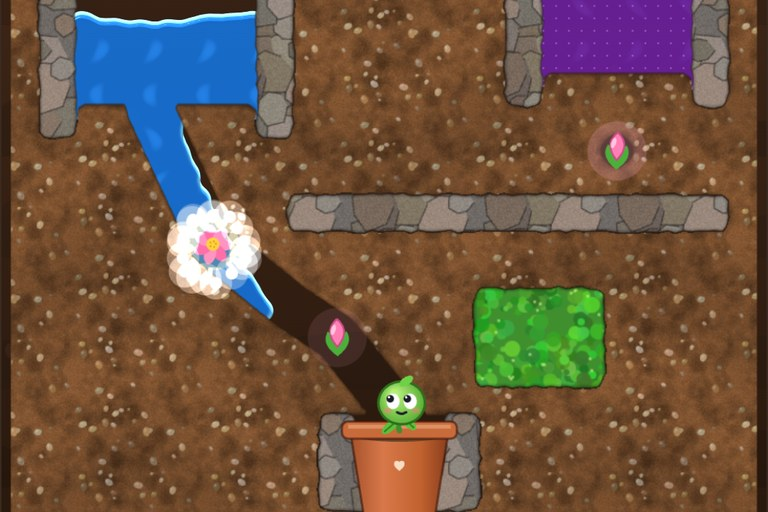
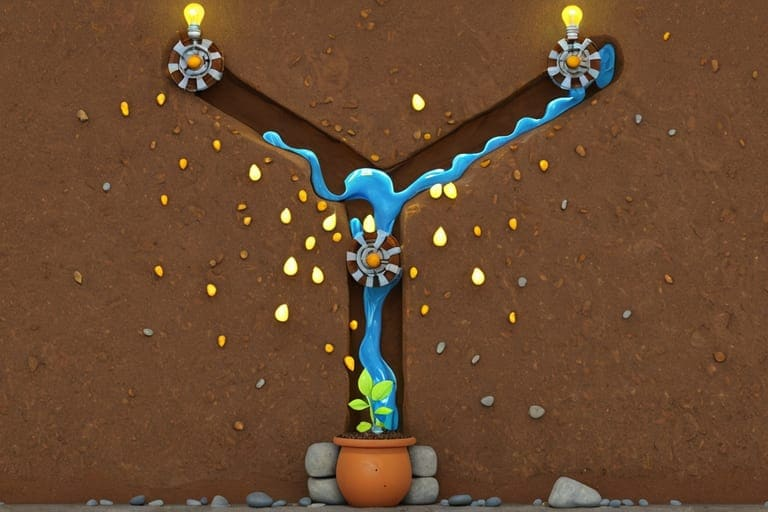
fix(implosao): validação pela parte real acima da linha; turbinas no Gota a Gota
Implosão: a avaliação só via o centro de cada peça, por isso peças
tombadas meio acima da linha contavam como 100% em baixo. Agora cada peça
é cortada pelo plano da linha e conta só o volume que fica por baixo.
Soluções dos 36 níveis recalculadas; Pirâmide começava já ganha (linha
2,5 → 1,8 m) e a Torre de Água não tinha solução possível (3 → 3,5 m).

Gota a Gota: as flores passam a turbinas (roda de pás que a água faz
girar e acende uma lâmpada; avaria com lodo/lava). Textos, conquista e
pesquisa atualizados; regras e níveis iguais.

Capas novas dos dois jogos geradas no ComfyUI. sw v350.

diff --git a/js/games/game-drip.js b/js/games/game-drip.js
@@ -2,7 +2,7 @@
    Gota a Gota (id drip) — puzzle de escavar para levar a água (out/2026).
 
    O Rebento, uma plantinha num vaso lá em baixo, tem sede. Escava a terra
-   com o dedo (ou o rato) para a água lá chegar; rega os botões de flor
+   com o dedo (ou o rato) para a água lá chegar; liga as turbinas
    pelo caminho (estrelas) e cuidado com o lodo, a lava e o musgo.
 
    Camadas no palco do ArcadeKit:
@@ -340,7 +340,12 @@ const DripGame = (function () {
     G.scared = danger < 120;
     G.fx = G.fx.filter(f => (f.t += dt) < f.life);
     G.bloomFx = G.bloomFx.filter(f => (f.t += dt) < f.life);
-    S.buds.forEach(b => { if (b.t > 0) b.t -= dt; if (b.state !== 'bud') b.anim = Math.min(1, (b.anim || 0) + dt * 2.5); });
+    S.buds.forEach(b => {
+      if (b.t > 0) b.t -= dt; if (b.state !== 'bud') b.anim = Math.min(1, (b.anim || 0) + dt * 2.5);
+      /* a roda gira com cada gota que passa; ligada, gira sempre */
+      b.w = b.state === 'bloom' ? (b.w || 0) + (9 - (b.w || 0)) * Math.min(1, dt * 3) : (b.w || 0) * Math.exp(-dt * 2.2);
+      b.rot = (b.rot || 0) + b.w * dt;
+    });
     S.switches.forEach(s => { if (s.on) s.anim = Math.min(1, (s.anim || 0) + dt * 3); });
     if (G.hintT > 0) G.hintT -= dt;
     /* fim */
@@ -354,8 +359,8 @@ const DripGame = (function () {
     const S = G.S, sf = api.sfx;
     for (const e of S.ev) {
       if (e.t === 'drink') { G.drink = 1; if (Math.random() < .25) sf.tone(520 + Math.random() * 300, .06, 'sine', .04, 0, 820); }
-      else if (e.t === 'sip') { sf.tone(900 + e.b.got * 60, .06, 'triangle', .04); }
-      else if (e.t === 'bloom') { sf.arp([660, 880, 1100, 1320], .06, .14, 'triangle', .07); api.vibe(20); G.bloomFx.push({ x: e.b.x, y: e.b.y, t: 0, life: 1.4 }); api.burst(e.b.x, e.b.y, 18, { colors: ['#ff8fc7', '#ffe066', '#ffffff'], speed: 160 }); }
+      else if (e.t === 'sip') { sf.tone(900 + e.b.got * 60, .06, 'triangle', .04); e.b.w = Math.min(10, (e.b.w || 0) + 4); }
+      else if (e.t === 'bloom') { sf.tone(110, .35, 'sawtooth', .04, 0, 330); sf.arp([523, 784, 1046], .05, .1, 'square', .05); api.vibe(20); G.bloomFx.push({ x: e.b.x, y: e.b.y - 34, t: 0, life: 1.2 }); api.burst(e.b.x, e.b.y - 34, 16, { colors: ['#ffe066', '#7ef0ff', '#ffffff'], speed: 170 }); }
       else if (e.t === 'wilt') { sf.tone(300, .3, 'sawtooth', .05, 0, 120); }
       else if (e.t === 'switch') { sf.tone(440, .08, 'square', .05); sf.tone(660, .1, 'square', .05, .08); sf.noise(.5, .05, .1, 600); }
       else if (e.t === 'valve') { sf.noise(.35, .05, 0, 900); sf.tone(330, .08, 'square', .04); }
@@ -380,10 +385,10 @@ const DripGame = (function () {
     } else { try { if (typeof GameProgress !== 'undefined') GameProgress.record(ID, { won: false, score: 0, mode: G.L.id }); } catch (e) {} }
     const next = LV()[G.li + 1];
     api.panel({
-      icon: won ? (stars === 3 ? '🌸' : '🌱') : '🥀', title: won ? (stars === 3 ? 'Jardim perfeito!' : 'O Rebento bebeu!') : 'Oh não…',
+      icon: won ? (stars === 3 ? '⚡' : '🌱') : '💧', title: won ? (stars === 3 ? 'Energia total!' : 'O Rebento bebeu!') : 'Oh não…',
       stars: won ? stars : null,
-      sub: won ? `${G.L.name}${stars < 3 ? '<br><small>Rega as 3 flores para ganhar ★★★</small>' : ''}` : S.failWhy,
-      stats: won ? [['Flores', stars + '/3'], ['Tempo', Math.round(S.t) + ' s']] : null,
+      sub: won ? `${G.L.name}${stars < 3 ? '<br><small>Liga as 3 turbinas para ganhar ★★★</small>' : ''}` : S.failWhy,
+      stats: won ? [['Turbinas', stars + '/3'], ['Tempo', Math.round(S.t) + ' s']] : null,
       buttons: [
         ...(won && next ? [{ label: '▶ Próximo nível', primary: true, fn: () => api.play(String(G.li + 1)) }] : []),
         { label: won ? '↺ Repetir' : '↺ Tentar de novo', primary: !won, fn: () => api.restart() },
@@ -490,11 +495,10 @@ const DripGame = (function () {
     const hg = ctx.createRadialGradient(hx - 5, hy - 6, 2, hx, hy, R + 2); hg.addColorStop(0, '#b6f07a'); hg.addColorStop(1, '#4fa62f');
     ctx.fillStyle = hg; ctx.beginPath(); ctx.ellipse(hx, hy, R, R * .92, 0, 0, 7); ctx.fill();
     ctx.strokeStyle = '#2f6e1c'; ctx.lineWidth = 1.6; ctx.stroke();
-    /* rebento no topo da cabeça / flor quando ganha */
+    /* rebento no topo da cabeça / duas folhas novas quando ganha */
     if (G.won) {
       const b = Math.min(1, G.endT * 1.5);
-      for (let j = 0; j < 6; j++) { const a = j / 6 * 6.28 + t * .6; ctx.fillStyle = j % 2 ? '#ff7eb6' : '#ff9fca'; ctx.beginPath(); ctx.ellipse(hx + Math.cos(a) * 8 * b, hy - R - 2 + Math.sin(a) * 8 * b, 6 * b, 4 * b, a, 0, 7); ctx.fill(); }
-      ctx.fillStyle = '#ffd84a'; ctx.beginPath(); ctx.arc(hx, hy - R - 2, 4.5 * b + .5, 0, 7); ctx.fill();
+      [-1, 1].forEach(sd => { ctx.save(); ctx.translate(hx, hy - R + 2); ctx.rotate(sd * (.55 + Math.sin(t * 3 + sd) * .08)); ctx.fillStyle = sd < 0 ? '#5cbf3a' : '#6fd04a'; ctx.beginPath(); ctx.ellipse(0, -9 * b, 4.5 * b, 9 * b, 0, 0, 7); ctx.fill(); ctx.strokeStyle = '#2f7a20'; ctx.lineWidth = 1; ctx.beginPath(); ctx.moveTo(0, 0); ctx.lineTo(0, -16 * b); ctx.stroke(); ctx.restore(); });
     } else { ctx.fillStyle = '#6fd04a'; ctx.beginPath(); ctx.ellipse(hx + 3, hy - R + 1, 5, 2.6, -.6, 0, 7); ctx.fill(); }
     /* olhos */
     const blink = (t % 3.7) < .12 || G.drink > .6;
@@ -520,30 +524,54 @@ const DripGame = (function () {
     ctx.restore();
   }
 
+  /* turbina: roda de pás que a água faz girar; ao ligar acende a lâmpada */
   function drawBud(ctx, G, b) {
-    const t = G.t, wob = b.t > 0 ? Math.sin(b.t * 40) * .15 : Math.sin(t * 2 + b.x) * .05;
-    ctx.save(); ctx.translate(b.x, b.y); ctx.rotate(wob);
-    if (b.state === 'dead') {
-      ctx.fillStyle = '#6b5236'; ctx.beginPath(); ctx.ellipse(0, 2, 7, 9, .3, 0, 7); ctx.fill(); ctx.strokeStyle = '#3a2a1a'; ctx.lineWidth = 1.2; ctx.stroke();
-      ctx.restore(); return;
+    const t = G.t, on = b.state === 'bloom', dead = b.state === 'dead';
+    const g = on ? 1 : b.got / b.need, rot = b.rot || 0;
+    ctx.save(); ctx.translate(b.x, b.y); ctx.scale(1.2, 1.2);
+    if (b.t > 0) ctx.translate(Math.sin(b.t * 60) * 1.2, 0);
+    if (on) { const a = b.anim || 1; ctx.scale(.85 + a * .15, .85 + a * .15); }
+    /* brilho de fundo (ciano à espera, amarelo ligada) */
+    ctx.fillStyle = dead ? 'rgba(0,0,0,.18)' : on ? `rgba(255,214,90,${.22 + Math.sin(t * 8 + b.x) * .06})` : `rgba(120,220,255,${.13 + Math.sin(t * 3 + b.x) * .05})`;
+    ctx.beginPath(); ctx.arc(0, 0, 21, 0, 7); ctx.fill();
+    /* poste + lâmpada por cima */
+    ctx.strokeStyle = dead ? '#4a4038' : '#5d6b78'; ctx.lineWidth = 2; ctx.beginPath(); ctx.moveTo(0, -15); ctx.lineTo(0, -24); ctx.stroke();
+    if (on) {
+      const fl = .85 + Math.sin(t * 23 + b.x) * .08;
+      const lg = ctx.createRadialGradient(0, -28, 1, 0, -28, 16); lg.addColorStop(0, `rgba(255,236,140,${.75 * fl})`); lg.addColorStop(1, 'rgba(255,200,60,0)');
+      ctx.fillStyle = lg; ctx.beginPath(); ctx.arc(0, -28, 16, 0, 7); ctx.fill();
     }
-    if (b.state === 'bloom') {
-      const a = b.anim || 1, s = .6 + a * .5;
-      ctx.scale(s, s);
-      ctx.fillStyle = 'rgba(255,230,120,.25)'; ctx.beginPath(); ctx.arc(0, 0, 22, 0, 7); ctx.fill();
-      for (let j = 0; j < 7; j++) { const an = j / 7 * 6.28 + t * .4; ctx.fillStyle = j % 2 ? '#ff6fa8' : '#ff94c2'; ctx.beginPath(); ctx.ellipse(Math.cos(an) * 9, Math.sin(an) * 9, 8, 5, an, 0, 7); ctx.fill(); }
-      ctx.fillStyle = '#ffd23f'; ctx.beginPath(); ctx.arc(0, 0, 5.5, 0, 7); ctx.fill(); ctx.fillStyle = '#e8a31a'; for (let j = 0; j < 5; j++) { ctx.beginPath(); ctx.arc(Math.cos(j * 1.3) * 2.5, Math.sin(j * 1.3) * 2.5, .9, 0, 7); ctx.fill(); }
-      ctx.restore(); return;
+    ctx.fillStyle = dead ? '#3b342e' : on ? '#ffe680' : '#55606b'; ctx.beginPath(); ctx.arc(0, -28, 4.6, 0, 7); ctx.fill();
+    ctx.strokeStyle = dead ? '#2a241f' : on ? '#e0a922' : '#2f3740'; ctx.lineWidth = 1.2; ctx.stroke();
+    ctx.fillStyle = '#8a96a2'; ctx.fillRect(-2.6, -24.5, 5.2, 2.4);
+    if (dead) { ctx.strokeStyle = '#a7b0b8'; ctx.lineWidth = .9; ctx.beginPath(); ctx.moveTo(-2, -31); ctx.lineTo(.5, -28); ctx.lineTo(-1, -25.5); ctx.stroke(); }
+    /* raios da lâmpada acesa */
+    if (on) { ctx.strokeStyle = 'rgba(255,230,120,.9)'; ctx.lineWidth = 1.6; for (let j = 0; j < 5; j++) { const a = -Math.PI / 2 + (j - 2) * .55, r0 = 8 + Math.sin(t * 10 + j) * 1.2; ctx.beginPath(); ctx.moveTo(Math.cos(a) * r0, -28 + Math.sin(a) * r0); ctx.lineTo(Math.cos(a) * (r0 + 4), -28 + Math.sin(a) * (r0 + 4)); ctx.stroke(); } }
+    /* caixa / eixo atrás da roda */
+    ctx.fillStyle = dead ? '#3d342c' : '#46525e'; U.rr(ctx, -5, -12, 10, 6, 2); ctx.fill();
+    /* roda de pás */
+    ctx.save(); ctx.rotate(rot);
+    const blade = dead ? '#5a4a3a' : on ? '#d9e3ea' : '#a9b6c2', edge = dead ? '#2e261f' : '#3c4752';
+    /* raios + aro */
+    ctx.strokeStyle = dead ? '#4a3c30' : '#7d8b98'; ctx.lineWidth = 1.6;
+    for (let j = 0; j < 6; j++) { const a = j / 6 * Math.PI * 2; ctx.beginPath(); ctx.moveTo(Math.cos(a) * 3, Math.sin(a) * 3); ctx.lineTo(Math.cos(a) * 10.5, Math.sin(a) * 10.5); ctx.stroke(); }
+    ctx.lineWidth = 2.4; ctx.beginPath(); ctx.arc(0, 0, 10.5, 0, 7); ctx.stroke();
+    /* pás à volta do aro */
+    for (let j = 0; j < 8; j++) {
+      if (dead && j === 3) continue;   /* pá partida */
+      ctx.save(); ctx.rotate(j / 8 * Math.PI * 2);
+      ctx.fillStyle = blade; U.rr(ctx, -2.6, 9.2, 5.2, 7, 1.2); ctx.fill();
+      ctx.strokeStyle = edge; ctx.lineWidth = .9; ctx.stroke();
+      ctx.restore();
     }
-    const g = b.got / b.need;
-    /* halo + botão fechado que incha com cada gota */
-    ctx.fillStyle = `rgba(255,170,210,${.16 + Math.sin(t * 3 + b.x) * .06})`; ctx.beginPath(); ctx.arc(0, 0, 19, 0, 7); ctx.fill();
-    ctx.fillStyle = '#4caf3a'; ctx.beginPath(); ctx.moveTo(0, 12); ctx.quadraticCurveTo(-11, 4, -6, -4); ctx.lineTo(0, 2); ctx.lineTo(6, -4); ctx.quadraticCurveTo(11, 4, 0, 12); ctx.fill();
-    const s = 1 + g * .35;
-    ctx.fillStyle = '#ff7fb5'; ctx.beginPath(); ctx.moveTo(0, -12 * s); ctx.quadraticCurveTo(9 * s, -4, 0, 6); ctx.quadraticCurveTo(-9 * s, -4, 0, -12 * s); ctx.fill();
-    ctx.strokeStyle = '#c94c86'; ctx.lineWidth = 1.2; ctx.stroke();
-    ctx.fillStyle = 'rgba(255,255,255,.55)'; ctx.beginPath(); ctx.ellipse(-2.5, -5 * s, 1.6, 3.5, .3, 0, 7); ctx.fill();
-    if (g > 0) { ctx.strokeStyle = '#7ad8ff'; ctx.lineWidth = 2.5; ctx.beginPath(); ctx.arc(0, 0, 16, -Math.PI / 2, -Math.PI / 2 + g * 6.28); ctx.stroke(); }
+    ctx.restore();
+    /* cubo */
+    ctx.fillStyle = dead ? '#3a2f26' : on ? '#ffcc3a' : '#7b8996'; ctx.beginPath(); ctx.arc(0, 0, 3.8, 0, 7); ctx.fill();
+    ctx.strokeStyle = 'rgba(0,0,0,.45)'; ctx.lineWidth = 1; ctx.stroke();
+    /* progresso (quanta água já passou) */
+    if (!on && !dead && g > 0) { ctx.strokeStyle = '#7ad8ff'; ctx.lineWidth = 2.5; ctx.beginPath(); ctx.arc(0, 0, 17.5, -Math.PI / 2, -Math.PI / 2 + g * 6.28); ctx.stroke(); }
+    /* avariada: fumo */
+    if (dead) { for (let j = 0; j < 2; j++) { const k = ((t * .5 + j * .5 + b.x * .01) % 1); ctx.fillStyle = `rgba(90,90,90,${.35 * (1 - k)})`; ctx.beginPath(); ctx.arc(Math.sin(k * 5 + j) * 3, -6 - k * 22, 3 + k * 5, 0, 7); ctx.fill(); } }
     ctx.restore();
   }
   const KEYC = { A: '#ef4444', B: '#f5b301', C: '#22c3e6', V: '#9aa7b4' };
@@ -670,10 +698,10 @@ const DripGame = (function () {
 .dr-l[disabled]{opacity:.42;cursor:not-allowed}
 .dr-l i{font-style:normal;font-size:.56rem;letter-spacing:.5px}
 .dr-tot{font:700 .82rem ${FONT};color:var(--muted,#9aa)}
-</style><div class="dr-m"><div class="dr-tot">🌸 ${tot} / ${LV().length * 3} flores</div>${CHS.map((c, ci) => {
+</style><div class="dr-m"><div class="dr-tot">⚡ ${tot} / ${LV().length * 3} turbinas</div>${CHS.map((c, ci) => {
         const ls = LV().map((l, i) => ({ l, i })).filter(o => o.l.chapter === ci);
         const cs = ls.reduce((s, o) => s + Math.max(0, sv.s[o.l.id] || 0), 0);
-        return `<div class="dr-c" style="background:linear-gradient(140deg,${c.grad[0]},${c.grad[1]})"><h4>${c.icon} ${c.name}<small>🌸 ${cs}/${ls.length * 3}</small></h4><p>${c.desc}</p><div class="dr-ls">${ls.map(({ l, i }) => {
+        return `<div class="dr-c" style="background:linear-gradient(140deg,${c.grad[0]},${c.grad[1]})"><h4>${c.icon} ${c.name}<small>⚡ ${cs}/${ls.length * 3}</small></h4><p>${c.desc}</p><div class="dr-ls">${ls.map(({ l, i }) => {
           const lock = !unlocked(sv, i), st = sv.s[l.id];
           return `<button class="dr-l" data-m="${i}" ${lock ? 'disabled' : ''} title="${l.name}">${lock ? '🔒' : i + 1}<i>${lock ? '' : st == null ? '·' : '★'.repeat(st) + '<span style="opacity:.3">' + '★'.repeat(3 - st) + '</span>'}</i></button>`;
         }).join('')}</div></div>`;
@@ -685,24 +713,24 @@ const DripGame = (function () {
   let CUR = null;
   const spec = {
     id: ID, title: 'Gota a Gota', icon: '💧', accent: '#3fb6ff', accent2: '#7ef0a0', bg: '#2a1a10', transparent: true, diff: false,
-    tagline: 'O Rebento tem sede! Escava a terra com o dedo para levar a água até ao vaso — e rega as flores pelo caminho. Cuidado com o lodo, a lava e o musgo guloso.',
+    tagline: 'O Rebento tem sede! Escava a terra com o dedo para levar a água até ao vaso — e faz girar as turbinas pelo caminho. Cuidado com o lodo, a lava e o musgo guloso.',
     view: { w: VW, h: VH }, picker, cursor: 'crosshair',
     get ready() { const L = CUR || LV()[0]; return { title: (CUR ? 'Nível ' + (CUR.index + 1) + ' · ' : '') + L.name, hint: L.tip || 'Arrasta para escavar a terra.' }; },
     how: [
       'Arrasta o dedo (ou o rato) sobre a <b>terra castanha</b> para a escavar. A <b>pedra</b> cinzenta não se escava.',
       'Leva água suficiente até ao <b>vaso do Rebento</b> — o medidor em baixo mostra quanto falta.',
-      'Rega os 3 <b>botões de flor</b> pelo caminho para ganhar <b>★★★</b> (cada flor bebe um pouco de água!).',
+      'Faz passar água pelas 3 <b>turbinas</b> para as ligar e ganhar <b>★★★</b> (cada uma gasta um pouco de água!).',
       'O <b>lodo roxo</b> anula a água e faz mal ao Rebento; a <b>lava</b> com água vira <b>pedra</b> e vapor; o <b>musgo</b> bebe a água mas o lodo mata-o. Toca em <b>bombas</b> e <b>válvulas</b>; enche os copos coloridos para abrir as comportas da mesma cor.',
     ],
     controls: ['🖱 arrastar = escavar', '👆 tocar = bomba / válvula', '↻ recomeçar · 💡 dica'],
     setup: (api, o) => { const G = setup(api, o); CUR = G.L; return G; },
     update, draw, down, move, up,
     destroy: G => { G.dead = 1; if (G.ro) G.ro.disconnect(); if (G.ui) G.ui.remove(); [G.bg, G.glc].forEach(c => c && c.remove()); const t = G.api && G.api.stage.querySelector('.dr-tip'); if (t) t.remove(); if (G.glr) { const e = G.glr.gl.getExtension('WEBGL_lose_context'); e && e.loseContext(); } },
-    hud: G => [['Nível', (G.li + 1) + '/' + LV().length], ['Vaso', Math.min(100, Math.round(G.S.fill / G.S.need * 100)) + '%'], ['Flores', G.S.buds.filter(b => b.state === 'bloom').length + '/' + G.S.buds.length]],
+    hud: G => [['Nível', (G.li + 1) + '/' + LV().length], ['Vaso', Math.min(100, Math.round(G.S.fill / G.S.need * 100)) + '%'], ['Turbinas', G.S.buds.filter(b => b.state === 'bloom').length + '/' + G.S.buds.length]],
     pauseButtons: (G, api) => [{ label: 'Escolher nível', fn: () => api.menu() }],
     achievements: [
       { id: 'drip.first', name: 'Primeira Gota', icon: '💧', desc: 'Leva a água até ao Rebento pela primeira vez.', test: c => c.result.won },
-      { id: 'drip.garden', name: 'Jardineiro', icon: '🌸', desc: 'Completa um nível do Gota a Gota com as 3 flores.', test: c => c.result.won && (c.result.meta && c.result.meta.stars) === 3 },
+      { id: 'drip.garden', name: 'Eletricista', icon: '⚡', desc: 'Completa um nível do Gota a Gota com as 3 turbinas ligadas.', test: c => c.result.won && (c.result.meta && c.result.meta.stars) === 3 },
     ],
   };
   const KIT = ArcadeKit.create(spec);

diff --git a/js/games/demo-levels.js b/js/games/demo-levels.js
@@ -363,7 +363,7 @@ lvl({ id: 'b6', w: 1, name: 'Moradia com Garagem', tip: 'Casa de dois pisos com 
     ref: (r) => [['cut', r.C.base[1], '+x'], ['cut', r.C.base[3], '+x']] });
 
   lvl({ id: 'p5', w: 2, name: 'Torre de Água', tip: 'Pernas de aço: só a carga de corte as parte. Corta as duas do mesmo lado.',
-    kit: ['pet', 'din', 'cut'], line: 3, pct: .8, money: 2000, s2: 1300, s3: 1050,
+    kit: ['pet', 'din', 'cut'], line: 3.5, pct: .8, money: 2000, s2: 1300, s3: 1050,
     build(B) { const W = B.waterTower(0, 0, { h: 9 }); B.house(0, -10, { part: 'p', tint: '#dfe9f3' }); B.house(-11, 0, { part: 'p', tint: '#f3e3df' }); return { W }; },
     ref: (r) => [['cut', r.W.legs[1], '+x'], ['cut', r.W.legs[3], '+x'], ['cut', r.W.legs[5], '+x', .2], ['cut', r.W.legs[7], '+x', .2]] });
 
@@ -436,7 +436,7 @@ lvl({ id: 'i6', w: 4, name: 'Depósito Gigante', tip: 'Um depósito enorme sobre
 
   /* ── 6. Monumentos ── */
   lvl({ id: 'r1', w: 5, name: 'Pirâmide', tip: 'Pedra maciça, pesada e teimosa. O TNT no sítio certo resolve.',
-    kit: ['pet', 'din', 'cut', 'imp', 'tnt'], line: 2.5, pct: .75, money: 3200, s2: 2200, s3: 1400,
+    kit: ['pet', 'din', 'cut', 'imp', 'tnt'], line: 1.8, pct: .75, money: 3200, s2: 2200, s3: 1400,
     build(B) { const P = B.pyramid(0, 0, { n: 5, s: 1.6, h: 1.2 }); B.deco('palm', 8, 6); B.deco('palm', -9, -5); return { P }; },
     ref: (r) => [['tnt', r.P.layers[1][4], '+y'], ['din', r.P.layers[0][12], '+y', .2]] });
 
@@ -475,12 +475,12 @@ lvl({ id: 'r3', w: 5, name: 'Mega Torre', tip: 'A obra final: catorze andares no
   const SOLS = {
     p2: { par: 350, sol: [['cut', 2, '+x', 0]] },
     p6: { par: 700, sol: [['cut', 1, '-x', 0], ['cut', 14, '+x', 0]] },
-    b1: { par: 1200, sol: [['pet', 0, '-z', 0], ['din', 1, '-z', 0], ['din', 2, '-x', 0], ['din', 3, '+z', 0], ['pet', 4, '+z', 0], ['din', 5, '+x', 0]] },
+    b1: { par: 700, sol: [['pet', 0, '-z', 0], ['din', 3, '+z', 0], ['pet', 4, '+z', 0], ['din', 5, '+x', 0]] },
     b2: { par: 750, sol: [['din', 6, '-z', 0], ['din', 7, '+x', 0], ['din', 8, '+z', 0]] },
     b3: { par: 200, sol: [['pet', 1, '+x', 0], ['pet', 3, '+x', 0]] },
     b4: { par: 500, sol: [['din', 7, '+z', 0], ['din', 10, '+z', 0]] },
     b5: { par: 1000, sol: [['din', 16, '-x', 0], ['din', 17, '+x', 0], ['din', 18, '+x', 0], ['din', 19, '+x', 0]] },
-    b6: { par: 550, sol: [['pet', 10, '+y', 0.3], ['pet', 11, '+y', 0.3], ['pet', 12, '+y', 0.3], ['din', 20, '+y', 0]] },
+    b6: { par: 450, sol: [['pet', 10, '+y', 0.3], ['pet', 11, '+y', 0.3], ['din', 17, '+y', 0]] },
     c1: { par: 750, sol: [['din', 2, '-z', 0], ['din', 5, '-z', 0], ['din', 4, '+z', 0]] },
     c2: { par: 1000, sol: [['din', 2, '+z', 0], ['din', 5, '+z', 0], ['din', 67, '+z', 0], ['din', 68, '+z', 0]] },
     c3: { par: 1000, sol: [['din', 3, '-z', 0], ['din', 4, '+x', 0], ['din', 5, '+z', 0], ['din', 8, '+z', 0]] },
@@ -490,8 +490,8 @@ lvl({ id: 'r3', w: 5, name: 'Mega Torre', tip: 'A obra final: catorze andares no
     i1: { par: 350, sol: [['pet', 2, '+z', 0], ['din', 3, '+z', 0]] },
     i2: { par: 700, sol: [['cut', 3, '+x', 0.3], ['cut', 5, '-x', 0.3]] },
     i3: { par: 750, sol: [['din', 22, '-x', 0], ['din', 24, '-x', 0], ['din', 13, '-x', 0.5]] },
-    i4: { par: 200, sol: [['pet', 29, '+x', 0], ['pet', 31, '+x', 0]] },
-    i5: { par: 250, sol: [['din', 4, '-x', 0]] },
+    i4: { par: 850, sol: [['din', 0, '+x', 0], ['din', 11, '-x', 0], ['pet', 29, '+x', 0], ['din', 31, '+x', 0]] },
+    i5: { par: 500, sol: [['din', 3, '+x', 0], ['din', 4, '-x', 0]] },
     i6: { par: 500, sol: [['din', 2, '+z', 0], ['din', 3, '+z', 0]] },
     o1: { par: 200, sol: [['pet', 2, '-x', 0], ['pet', 1, '+x', 0]] },
     o2: { par: 800, sol: [['pet', 12, '+z', 0], ['pet', 13, '+z', 0], ['pet', 14, '-x', 0], ['pet', 15, '-x', 0], ['pet', 16, '-x', 0], ['pet', 17, '+x', 0], ['pet', 18, '+x', 0], ['pet', 19, '+x', 0]] },
@@ -503,12 +503,12 @@ lvl({ id: 'r3', w: 5, name: 'Mega Torre', tip: 'A obra final: catorze andares no
     p3: { par: 1500, sol: [['din', 28, '+z', 0], ['din', 30, '+x', 0], ['din', 31, '-x', 0], ['din', 32, '+x', 0], ['din', 33, '-x', 0], ['din', 34, '+x', 0]] },
     p4: { par: 700, sol: [['cut', 1, '+x', 0], ['cut', 3, '+x', 0]] },
     p5: { par: 700, sol: [['cut', 1, '+x', 0], ['cut', 9, '+x', 0.2]] },
-    r1: { par: 700, sol: [['tnt', 29, '+y', 0]] },
+    r1: { par: 950, sol: [['tnt', 29, '+y', 0], ['din', 12, '+y', 0.2]] },
     r2: { par: 1200, sol: [['tnt', 1, '-z', 0], ['din', 15, '+x', 0], ['din', 13, '-x', 0]] },
     r3: { par: 750, sol: [['din', 3, '-z', 0], ['din', 6, '-z', 0], ['din', 7, '+x', 0]] },
     r4: { par: 1000, sol: [['din', 0, '-z', 0], ['din', 1, '+z', 0], ['din', 72, '-z', 0], ['din', 73, '+z', 0]] },
     r5: { par: 850, sol: [['din', 3, '+x', 0.25], ['pet', 4, '+x', 0.5], ['din', 5, '+x', 0.75], ['din', 6, '+x', 1]] },
-    r6: { par: 2000, sol: [['din', 2, '+x', 0.2], ['din', 3, '+x', 0.30000000000000004], ['din', 4, '+x', 0.4], ['din', 5, '+x', 0.5], ['din', 6, '+x', 0.6000000000000001], ['din', 7, '+x', 0.7000000000000001], ['din', 8, '+x', 0.8], ['din', 9, '+x', 0.9]] },
+    r6: { par: 1750, sol: [['din', 3, '+x', 0.3], ['din', 4, '+x', 0.4], ['din', 5, '+x', 0.5], ['din', 6, '+x', 0.6], ['din', 7, '+x', 0.7], ['din', 8, '+x', 0.8], ['din', 9, '+x', 0.9]] },
   };
 
   /* monta um nível: blocos + referências */

diff --git a/js/games/drip-levels.js b/js/games/drip-levels.js
@@ -4,14 +4,14 @@
    Mapa: 24 × 34 células de 20 px (por baixo das 2 linhas da superfície).
    Legenda: '#' terra · 'R' pedra · 'k' pedra rachada (só a bomba parte)
             'w' água · 'p' lodo · 'l' lava · 'm' musgo · ' ' ar
-            'G' vaso do Rebento (canto sup. esq. de 3×2) · 'F' botão de flor
+            'G' vaso do Rebento (canto sup. esq. de 3×2) · 'F' turbina
             'X' bomba · 'H' placa quente · 'C' nuvem fria · 'O' torneira
             'a'/'b'/'c' copo que abre a comporta 'A'/'B'/'C' · 'V' válvula
    Cada nível é desenhado com um pequeno construtor (g) em vez de ASCII à
    mão (menos erros) e traz a solução `sol` — traços de escavação {d} e
    toques {tap} em coordenadas de célula — que o verificador em Node
    (node_modules/.drip-check.cjs) corre para provar que o nível se faz
-   com as 3 flores.
+   com as 3 turbinas.
 ══════════════════════════════════════════════════════════════════ */
 const DripLevels = (function () {
   'use strict';
@@ -44,7 +44,7 @@ const DripLevels = (function () {
   }
 
   const CHAPTERS = [
-    { name: 'Primeiras Gotas', icon: '💧', desc: 'Escava caminhos e rega as flores.', grad: ['#3fb6ff', '#1d6fa8'] },
+    { name: 'Primeiras Gotas', icon: '💧', desc: 'Escava caminhos e liga as turbinas.', grad: ['#3fb6ff', '#1d6fa8'] },
     { name: 'Lodo e Musgo', icon: '🟣', desc: 'O lodo anula a água; o musgo bebe-a. Comportas coloridas.', grad: ['#a855f7', '#5b21b6'] },
     { name: 'Rio de Lava', icon: '🌋', desc: 'Lava + água = pedra e vapor. Nuvens frias fazem chover.', grad: ['#f97316', '#9a3412'] },
     { name: 'Engenhocas', icon: '⚙', desc: 'Bombas, válvulas, torneiras e tudo junto.', grad: ['#64748b', '#1e293b'] },
@@ -104,7 +104,7 @@ const DripLevels = (function () {
     g.bud(4, 11); g.bud(11, 14); g.bud(13, 10);
   }, [{ d: [[4.5, 7.2], [4.5, 14.5], [12.5, 14.5], [12.5, 10.5], [16.5, 10.5], [16.5, 12]] }]);
 
-  lvl('c1-7', 'Gotas Contadas', { chapter: 0, need: 120, tip: 'Pouca água: cada desvio conta. As flores também bebem!' }, g => {
+  lvl('c1-7', 'Gotas Contadas', { chapter: 0, need: 120, tip: 'Pouca água: cada desvio conta. As turbinas também gastam!' }, g => {
     g.floor(30);
     g.basin(9, 1, 14, 3, 'w', { air: 1 });
     g.basin(1, 10, 4, 11, 'w', { air: 0 });
@@ -232,7 +232,7 @@ const DripLevels = (function () {
   }, [{ d: [[3.5, 4.2], [3.5, 15.3]] }, { d: [[3.5, 6], [11.5, 8.6]] }, { d: [[12, 4.2], [16.5, 6.5], [20.5, 9.5]], t: 5 }, { d: [[20.5, 4.2], [20.5, 9.5], [16.5, 16.5], [11.5, 18.4]], t: 5 }, { d: [[11.5, 20], [11.5, 23.5], [11.5, 27]], t: 5 }]);
 
   /* ═════════ capítulo 3 — Rio de Lava ═════════ */
-  lvl('c3-1', 'Lava Lenta', { chapter: 2, need: 70, tip: 'A lava é espessa e queima tudo — flores e Rebento incluídos. Deixa-a fechada!' }, g => {
+  lvl('c3-1', 'Lava Lenta', { chapter: 2, need: 70, tip: 'A lava é espessa e queima tudo — turbinas e Rebento incluídos. Deixa-a fechada!' }, g => {
     g.floor(30);
     g.basin(15, 1, 21, 3, 'l', { air: 1 }); g.basin(2, 1, 7, 3, 'w', { air: 1 });
     g.rect(13, 6, 23, 6, 'R');

diff --git a/js/games/demo-sim.js b/js/games/demo-sim.js
@@ -457,12 +457,29 @@ const DemoSim = (function () {
     }
 
     /* ── avaliação ── */
+    /* volume da peça que está mesmo acima da linha (a forma real cortada pelo plano y = linha),
+       e não só "o centro está acima?" — uma coluna tombada na diagonal ou um bloco alto em pé
+       com o centro abaixo da linha ficavam a contar como 100% em baixo */
+    function volAbove(p) {
+      const t = p.body.translation();
+      if (p.rad == null) {
+        const poly = p.poly || (p.shape === 'cyl' ? cylPoly(p.size[0] / 2, p.size[1], 14) : boxPoly(...p.size));
+        p.lpoly = poly.map(f => ({ v: f.v.map(q => [q[0] - p.c[0], q[1] - p.c[1], q[2] - p.c[2]]), inner: 0 }));
+        p.rad = 0; p.lpoly.forEach(f => f.v.forEach(q => { p.rad = Math.max(p.rad, Math.hypot(q[0], q[1], q[2])); }));
+        p.lvol = polyMass(p.lpoly).vol || p.vol;
+      }
+      if (t.y - p.rad >= S.lineY) return p.vol;
+      if (t.y + p.rad <= S.lineY) return 0;
+      const q = p.body.rotation();
+      const w = p.lpoly.map(f => ({ v: f.v.map(a => { const r = qrot(q, v3(a[0], a[1], a[2])); return [r.x + t.x, r.y + t.y, r.z + t.z]; }), inner: 0 }));
+      return Math.min(p.vol, polyMass(clip(w, [0, -1, 0], -S.lineY)).vol * p.vol / p.lvol);
+    }
     function evaluate() {
       let up = 0;
       const dam = new Set();
       S.pieces.forEach(p => {
         if (p.part === 's') {
-          if (p.alive && p.body && p.body.translation().y > S.lineY) up += p.vol;
+          if (p.alive && p.body) up += opts.centreEval ? (p.body.translation().y > S.lineY ? p.vol : 0) : volAbove(p);
         } else if (p.part === 'p') {
           let hurt = false;
           if (p.kind === 'block' && !p.alive && !p.fell) hurt = true;

diff --git a/js/core/search.js b/js/core/search.js
@@ -68,7 +68,7 @@ const Search = (function () {
     { label: 'Cadeia', id: 'games/memory-chain', icon: '🔗', tags: ['memória', 'cadeia', 'sequência', 'formas', 'memory chain'] },
     { label: 'Conta Blocos', id: 'games/block-count', icon: '🧮', tags: ['contar', 'blocos', 'atenção', 'memória', '3d', 'count'] },
     { label: 'Implosão', id: 'games/demolition', icon: '💥', tags: ['demolição', 'demolir', 'explosivos', 'dinamite', 'bombas', 'prédio', 'implosão', 'física', 'puzzle', '3d', 'destruir'] },
-    { label: 'Gota a Gota', id: 'games/drip', icon: '💧', tags: ['água', 'escavar', 'cavar', 'puzzle', 'planta', 'flores', 'lava', 'física', 'líquidos', 'rebento'] },
+    { label: 'Gota a Gota', id: 'games/drip', icon: '💧', tags: ['água', 'escavar', 'cavar', 'puzzle', 'planta', 'turbinas', 'energia', 'lava', 'física', 'líquidos', 'rebento'] },
     { label: 'Operação Soneca', id: 'games/sniper', icon: '🦉', tags: ['sniper', 'atirador', 'furtivo', 'mira', 'dardos', 'binóculos', 'espionagem', 'missões', '3d'] },
     { label: 'Fúria Divina', id: 'games/divine-wrath', icon: '☄', tags: ['destruição', 'sandbox', 'cidade', 'meteorito', 'tsunami', 'terramoto', 'vulcão', 'tornado', 'deus', 'catástrofes', 'stress', '3d'] },
     { label: 'Ás dos Céus', id: 'games/sky-ace', icon: '🛩', tags: ['aviões', 'avião', 'caça', 'combate aéreo', 'mísseis', '3d', 'voo', 'pilotar', 'drones', 'jet'] },

diff --git a/js/games/drip-sim.js b/js/games/drip-sim.js
@@ -336,7 +336,7 @@ const DripSim = (function () {
     }
   }
 
-  /* ── objetos: vaso, botões de flor, interruptores, placas, nuvens, musgo ── */
+  /* ── objetos: vaso, turbinas, interruptores, placas, nuvens, musgo ── */
   function interact(S) {
     const pot = S.pot;
     S.mossCap = Math.min(6, (S.mossCap || 0) + DT * 18);

diff --git a/sw.js b/sw.js
@@ -1,4 +1,4 @@
-const CACHE = 'dcop7-v349';
+const CACHE = 'dcop7-v350';
 const STATIC = [
   '/',
   '/index.html',

diff --git a/README.md b/README.md
@@ -37,7 +37,7 @@ Navegação lateral (hash-based), agrupada em **Descobrir**, **Ferramentas**, **
 | `#discovery` | **Gaming Deals** | Deals de gaming e jogos grátis (refresh 6h) |
 | `#tools` | **Tools** | Calculadora, pomodoro, cronómetro, editor markdown, regex tester, diff, conversores, cores, UUID, timestamps, dados 3D, … |
 | `#cheatsheets` | **Cheatsheets** | Referências de comandos: Git, Linux, Vim, regex, Docker, atalhos |
-| `#games` | **Jogos** | 50 jogos em 8 categorias (3D — Ás dos Céus, Fúria Divina, Operação Soneca, Implosão, Ilhas Flutuantes, Buraco Guloso · Aventura · Memória & Atenção · Puzzle & Lógica · Tabuleiro & Cartas · Pontaria & Física · Reflexos · Ação & Velocidade, com filtro no hub). **Implosão** (puzzle de demolição 3D com física a sério — Rapier 3D vendored em `js/vendor/rapier3d.min.js`, carregado a pedido: 36 níveis em 6 mundos (estaleiro, bairro, porto com mar, centro, indústria com rio, monumentos), 5 cargas (petardo, dinamite, carga de corte para o aço, impulso, barril TNT) com atrasos, objetivo "abaixo da linha" sem tocar no que está protegido e estrelas pelo custo; blocos estilhaçam em pedaços convexos (cortes por planos) e as zonas junto às cargas ficam em pó; resistência calibrada pela carga estática de cada peça; texturas procedimentais em mapeamento triplanar no espaço do bloco, pó/fogo em billboards instanciados, sirene e contagem, repetição em câmara lenta; núcleo sem three.js em `demo-sim.js` e níveis/construtores em `demo-levels.js`, cada nível com solução verificada por um solucionador em Node que também define as estrelas e o orçamento). **Aventura** (carregados só ao abrir): **Gota a Gota** (escavar a terra para levar a água até ao Rebento: 40 níveis em 4 capítulos — água, lodo que anula a água, musgo que bebe e cresce e arde com lava, lava que com água vira pedra e vapor, placas quentes e nuvens frias que fazem chover, comportas abertas por copos, válvulas, bombas, pedra rachada e torneiras; líquido em partículas com relaxação de densidade dupla em `drip-sim.js`, desenhado em WebGL como metaballs; níveis em `drip-levels.js` com solução verificada em 3 variantes), Mundos de Pip (plataformas 2D, 12 níveis em 4 mundos, rampas/loops/molas/segredos, motor e níveis próprios em `platformer-levels.js`), Fuga na Selva (corrida infinita 2D, 4 ambientes, lianas, onda de bananas), Torres Impossíveis (puzzle 3D de perspetiva isométrica com ilusões, 12 níveis verificados por solucionador em `mono-levels.js`), Ilhas Flutuantes (plataformas 3D, 12 ilhas × 5 estrelas). **Memória** (sobre `memo-kit.js`): Caminho, O Que Mudou? (estante 3D), Ecos (sequências de luzes e sons), Padrão, Cadeia, Conta Blocos (3D). **Fúria Divina** (sandbox de destruição sem objetivos: cidade procedural com ~3800 edifícios em InstancedMesh com fachadas por shader e bairros distintos (baixa de arranha-céus, centro histórico de telhados de telha, colina com bairro e miradouro, rio com pontes e ponte de tirantes, estádio, arena, museu, catedral, parque de diversões com roda/montanha-russa/carrossel animados, zona industrial com chaminés e silos, porto com gruas, praia, aeroporto com avião que descola e aterra); modo Região (8,4 km com aldeias, campos, estradas e eólicas) e modo Leve; trânsito em rede com pontes, peões que fogem, destroços com física e 15 poderes com intensidade 1–5, dia/noite e restauro, em `game-wrath.js`), **Operação Soneca** (atirador furtivo 3D SEM violência — dardos de sono, os alvos bocejam e adormecem a ressonar: 5 missões com mundos próprios (cais com navio, festa da aldeia, telhados ao pôr do sol, vivenda nas montanhas a 500 m, estação à meia-noite), mira 4×/8×/14× com oscilação e respiração, queda do dardo, vento, zeragem, binóculos para marcar alvos, câmara do dardo, guardas fardados com espingarda de dardos que dão o alarme (marcador vermelho com contagem e câmara de vigilância no canto a mostrar quem o vai dar) e alvos que fogem (lancha, carro com o condutor visível, helicóptero, comboio); gente articulada instanciada (corpo torneado, cara com íris, mãos com dedos, IK nos braços para a arma e o volante, passada sem pés a escorregar) com dezenas de animações em `sniper-people.js`, prédios/camiões/barcos com casco a sério/árvores em tufos com LOD/esplanadas com cadeiras/terreno em `sniper-kit.js` (pisos sobrepostos com polygonOffset, empenas viradas para fora), jogo em `game-sniper.js` (plano de recorte que cresce com o zoom e sombras encaixadas no espaço da luz para nada tremer)), **Ás dos Céus** (combate aéreo 3D, carregado só ao abrir: `sky-ace-world.js` gera terreno/céu/água/nuvens/modelos/efeitos e `game-sky-ace.js` tem voo, armas, IA de drones, 6 missões + Arena + Voo livre, HUD e comandos teclado/comando/toque; caças com fuselagem em loft de secções superelípticas, pintura em dois tons com verniz, cabine de vidro com piloto, insígnias, tubeiras em pétalas e contorno). Água e chão partilhados pelos jogos 3D em `arcade-3d.js`: `Arcade3D.water` (ondulação procedural sem repetição em 4 escalas + rajadas, baixios turquesa e espuma a partir de um mapa do fundo, borda transparente que esconde o tremido da costa) e `Arcade3D.noTile` (texturas de relva/terra/areia sem padrão repetido). Os restantes 35: Xadrez (chess.js vendored), Sueca (engine/IA próprios, 4 níveis), Olho Vivo (Dobble/Spot It, plano projetivo, engine próprio), Batalha Naval, Uno (engine/IA próprios), Bomba, Campo Minado, Forca, Wordle, Memória (5 temas de símbolos para 7+ anos e adultos), Neon Shooter, Reaction, Gravity Lab + 14 arcade em canvas sobre a casca comum `ArcadeKit` (Lança-Facas, Torre, Faixa Rápida, Muro das Setas, Saltitão, Corte Ninja, Parede Mortal, Drift, Alvo, Contas Rápidas, Minigolfe, Bola Veloz, Galinha Acima, Queda Livre) + Bolhas, Parte-Tijolos, Rajada (bolas em rajada contra blocos numerados que descem), Travessia, Buraco Guloso (3D com three.js: cenário cidade/aldeia/aeroporto/praia/casa com Aspirador → mapa de 6×6 a 30×30 → modo batalha/último de pé/contra-relógio/passeio; buraco recortado por stencil, só as instâncias à volta da câmara vão para a GPU, XP e skins), General (Yahtzee, IA própria), 2048 e Sudoku (gerador com solução única) — progresso unificado via `GameProgress`, até 5 favoritos |
+| `#games` | **Jogos** | 50 jogos em 8 categorias (3D — Ás dos Céus, Fúria Divina, Operação Soneca, Implosão, Ilhas Flutuantes, Buraco Guloso · Aventura · Memória & Atenção · Puzzle & Lógica · Tabuleiro & Cartas · Pontaria & Física · Reflexos · Ação & Velocidade, com filtro no hub). **Implosão** (puzzle de demolição 3D com física a sério — Rapier 3D vendored em `js/vendor/rapier3d.min.js`, carregado a pedido: 36 níveis em 6 mundos (estaleiro, bairro, porto com mar, centro, indústria com rio, monumentos), 5 cargas (petardo, dinamite, carga de corte para o aço, impulso, barril TNT) com atrasos, objetivo "abaixo da linha" sem tocar no que está protegido e estrelas pelo custo; blocos estilhaçam em pedaços convexos (cortes por planos) e as zonas junto às cargas ficam em pó; resistência calibrada pela carga estática de cada peça; texturas procedimentais em mapeamento triplanar no espaço do bloco, pó/fogo em billboards instanciados, sirene e contagem, repetição em câmara lenta; núcleo sem three.js em `demo-sim.js` e níveis/construtores em `demo-levels.js`, cada nível com solução verificada por um solucionador em Node que também define as estrelas e o orçamento). **Aventura** (carregados só ao abrir): **Gota a Gota** (escavar a terra para levar a água até ao Rebento: 40 níveis em 4 capítulos — água, lodo que anula a água, musgo que bebe e cresce e arde com lava, lava que com água vira pedra e vapor, placas quentes e nuvens frias que fazem chover, comportas abertas por copos, válvulas, bombas, pedra rachada e torneiras; 3 turbinas por nível que a água faz girar e acender (★★★); líquido em partículas com relaxação de densidade dupla em `drip-sim.js`, desenhado em WebGL como metaballs; níveis em `drip-levels.js` com solução verificada em 3 variantes), Mundos de Pip (plataformas 2D, 12 níveis em 4 mundos, rampas/loops/molas/segredos, motor e níveis próprios em `platformer-levels.js`), Fuga na Selva (corrida infinita 2D, 4 ambientes, lianas, onda de bananas), Torres Impossíveis (puzzle 3D de perspetiva isométrica com ilusões, 12 níveis verificados por solucionador em `mono-levels.js`), Ilhas Flutuantes (plataformas 3D, 12 ilhas × 5 estrelas). **Memória** (sobre `memo-kit.js`): Caminho, O Que Mudou? (estante 3D), Ecos (sequências de luzes e sons), Padrão, Cadeia, Conta Blocos (3D). **Fúria Divina** (sandbox de destruição sem objetivos: cidade procedural com ~3800 edifícios em InstancedMesh com fachadas por shader e bairros distintos (baixa de arranha-céus, centro histórico de telhados de telha, colina com bairro e miradouro, rio com pontes e ponte de tirantes, estádio, arena, museu, catedral, parque de diversões com roda/montanha-russa/carrossel animados, zona industrial com chaminés e silos, porto com gruas, praia, aeroporto com avião que descola e aterra); modo Região (8,4 km com aldeias, campos, estradas e eólicas) e modo Leve; trânsito em rede com pontes, peões que fogem, destroços com física e 15 poderes com intensidade 1–5, dia/noite e restauro, em `game-wrath.js`), **Operação Soneca** (atirador furtivo 3D SEM violência — dardos de sono, os alvos bocejam e adormecem a ressonar: 5 missões com mundos próprios (cais com navio, festa da aldeia, telhados ao pôr do sol, vivenda nas montanhas a 500 m, estação à meia-noite), mira 4×/8×/14× com oscilação e respiração, queda do dardo, vento, zeragem, binóculos para marcar alvos, câmara do dardo, guardas fardados com espingarda de dardos que dão o alarme (marcador vermelho com contagem e câmara de vigilância no canto a mostrar quem o vai dar) e alvos que fogem (lancha, carro com o condutor visível, helicóptero, comboio); gente articulada instanciada (corpo torneado, cara com íris, mãos com dedos, IK nos braços para a arma e o volante, passada sem pés a escorregar) com dezenas de animações em `sniper-people.js`, prédios/camiões/barcos com casco a sério/árvores em tufos com LOD/esplanadas com cadeiras/terreno em `sniper-kit.js` (pisos sobrepostos com polygonOffset, empenas viradas para fora), jogo em `game-sniper.js` (plano de recorte que cresce com o zoom e sombras encaixadas no espaço da luz para nada tremer)), **Ás dos Céus** (combate aéreo 3D, carregado só ao abrir: `sky-ace-world.js` gera terreno/céu/água/nuvens/modelos/efeitos e `game-sky-ace.js` tem voo, armas, IA de drones, 6 missões + Arena + Voo livre, HUD e comandos teclado/comando/toque; caças com fuselagem em loft de secções superelípticas, pintura em dois tons com verniz, cabine de vidro com piloto, insígnias, tubeiras em pétalas e contorno). Água e chão partilhados pelos jogos 3D em `arcade-3d.js`: `Arcade3D.water` (ondulação procedural sem repetição em 4 escalas + rajadas, baixios turquesa e espuma a partir de um mapa do fundo, borda transparente que esconde o tremido da costa) e `Arcade3D.noTile` (texturas de relva/terra/areia sem padrão repetido). Os restantes 35: Xadrez (chess.js vendored), Sueca (engine/IA próprios, 4 níveis), Olho Vivo (Dobble/Spot It, plano projetivo, engine próprio), Batalha Naval, Uno (engine/IA próprios), Bomba, Campo Minado, Forca, Wordle, Memória (5 temas de símbolos para 7+ anos e adultos), Neon Shooter, Reaction, Gravity Lab + 14 arcade em canvas sobre a casca comum `ArcadeKit` (Lança-Facas, Torre, Faixa Rápida, Muro das Setas, Saltitão, Corte Ninja, Parede Mortal, Drift, Alvo, Contas Rápidas, Minigolfe, Bola Veloz, Galinha Acima, Queda Livre) + Bolhas, Parte-Tijolos, Rajada (bolas em rajada contra blocos numerados que descem), Travessia, Buraco Guloso (3D com three.js: cenário cidade/aldeia/aeroporto/praia/casa com Aspirador → mapa de 6×6 a 30×30 → modo batalha/último de pé/contra-relógio/passeio; buraco recortado por stencil, só as instâncias à volta da câmara vão para a GPU, XP e skins), General (Yahtzee, IA própria), 2048 e Sudoku (gerador com solução única) — progresso unificado via `GameProgress`, até 5 favoritos |
 | `#quiz` | **Quizzes** | Quizzes offline data-driven: `quizzes/<id>/<lang>/<dificuldade>.json`, cada pergunta com facto explicativo (`exp`), sem APIs |
 | `#humor` | **Humor** | Piadas por categoria, data-driven (`data/humor/*.json`), 17 categorias (incl. piropos e cúmulos) organizadas por grupos, centenas de entradas |
 | `#links` | **Links** | Biblioteca de recursos por categoria |
